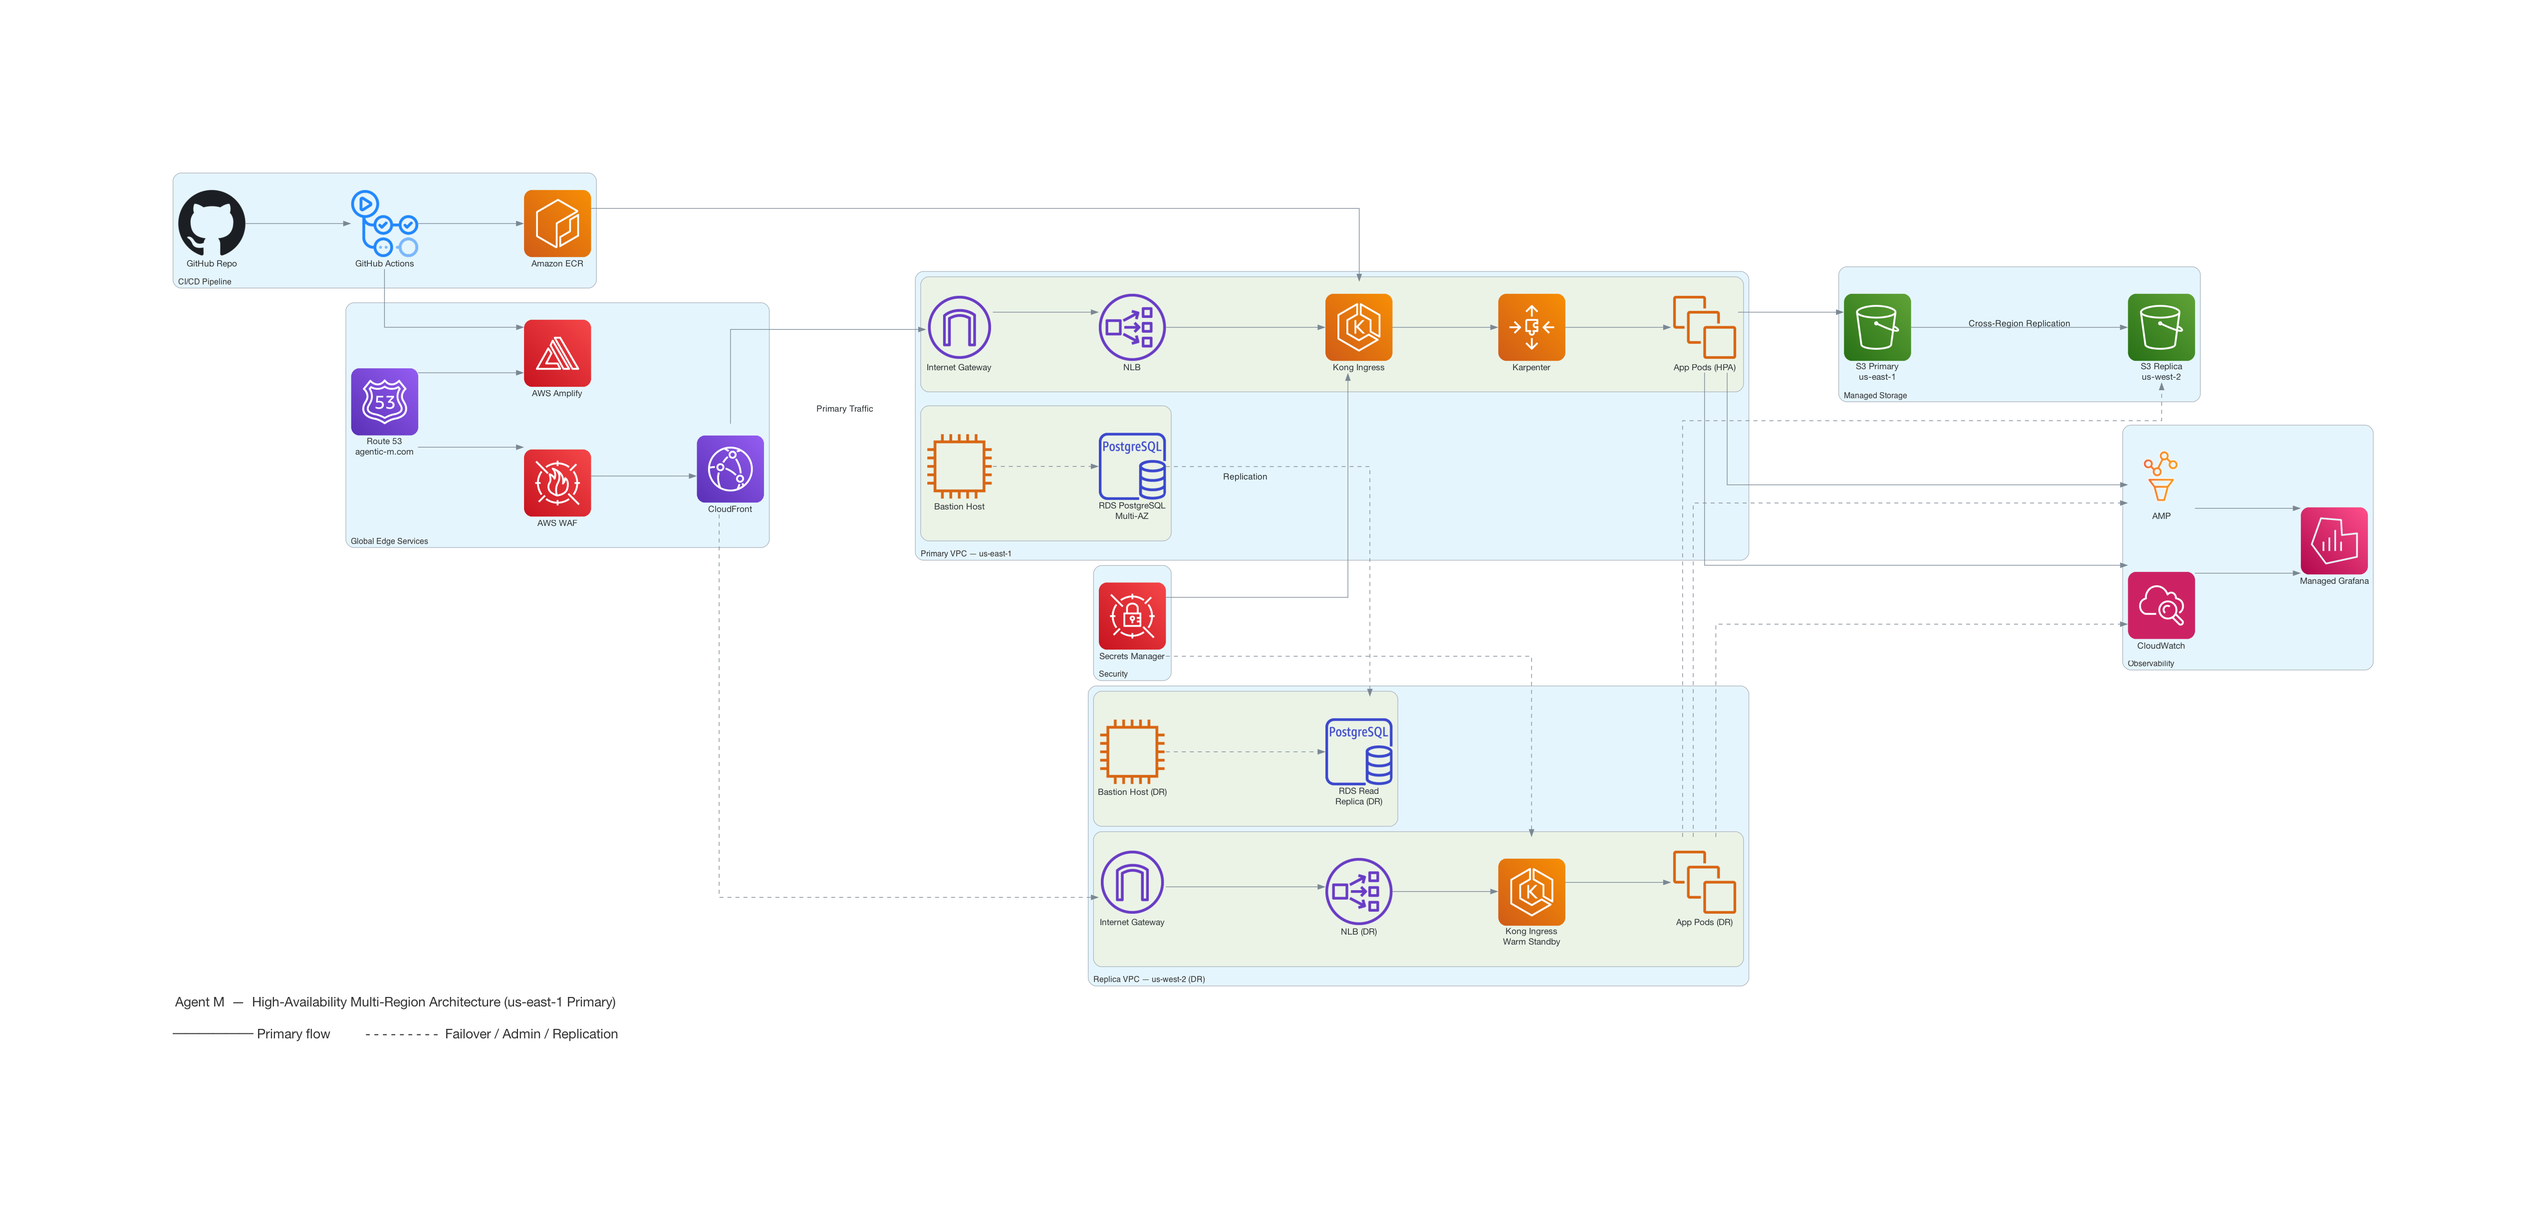
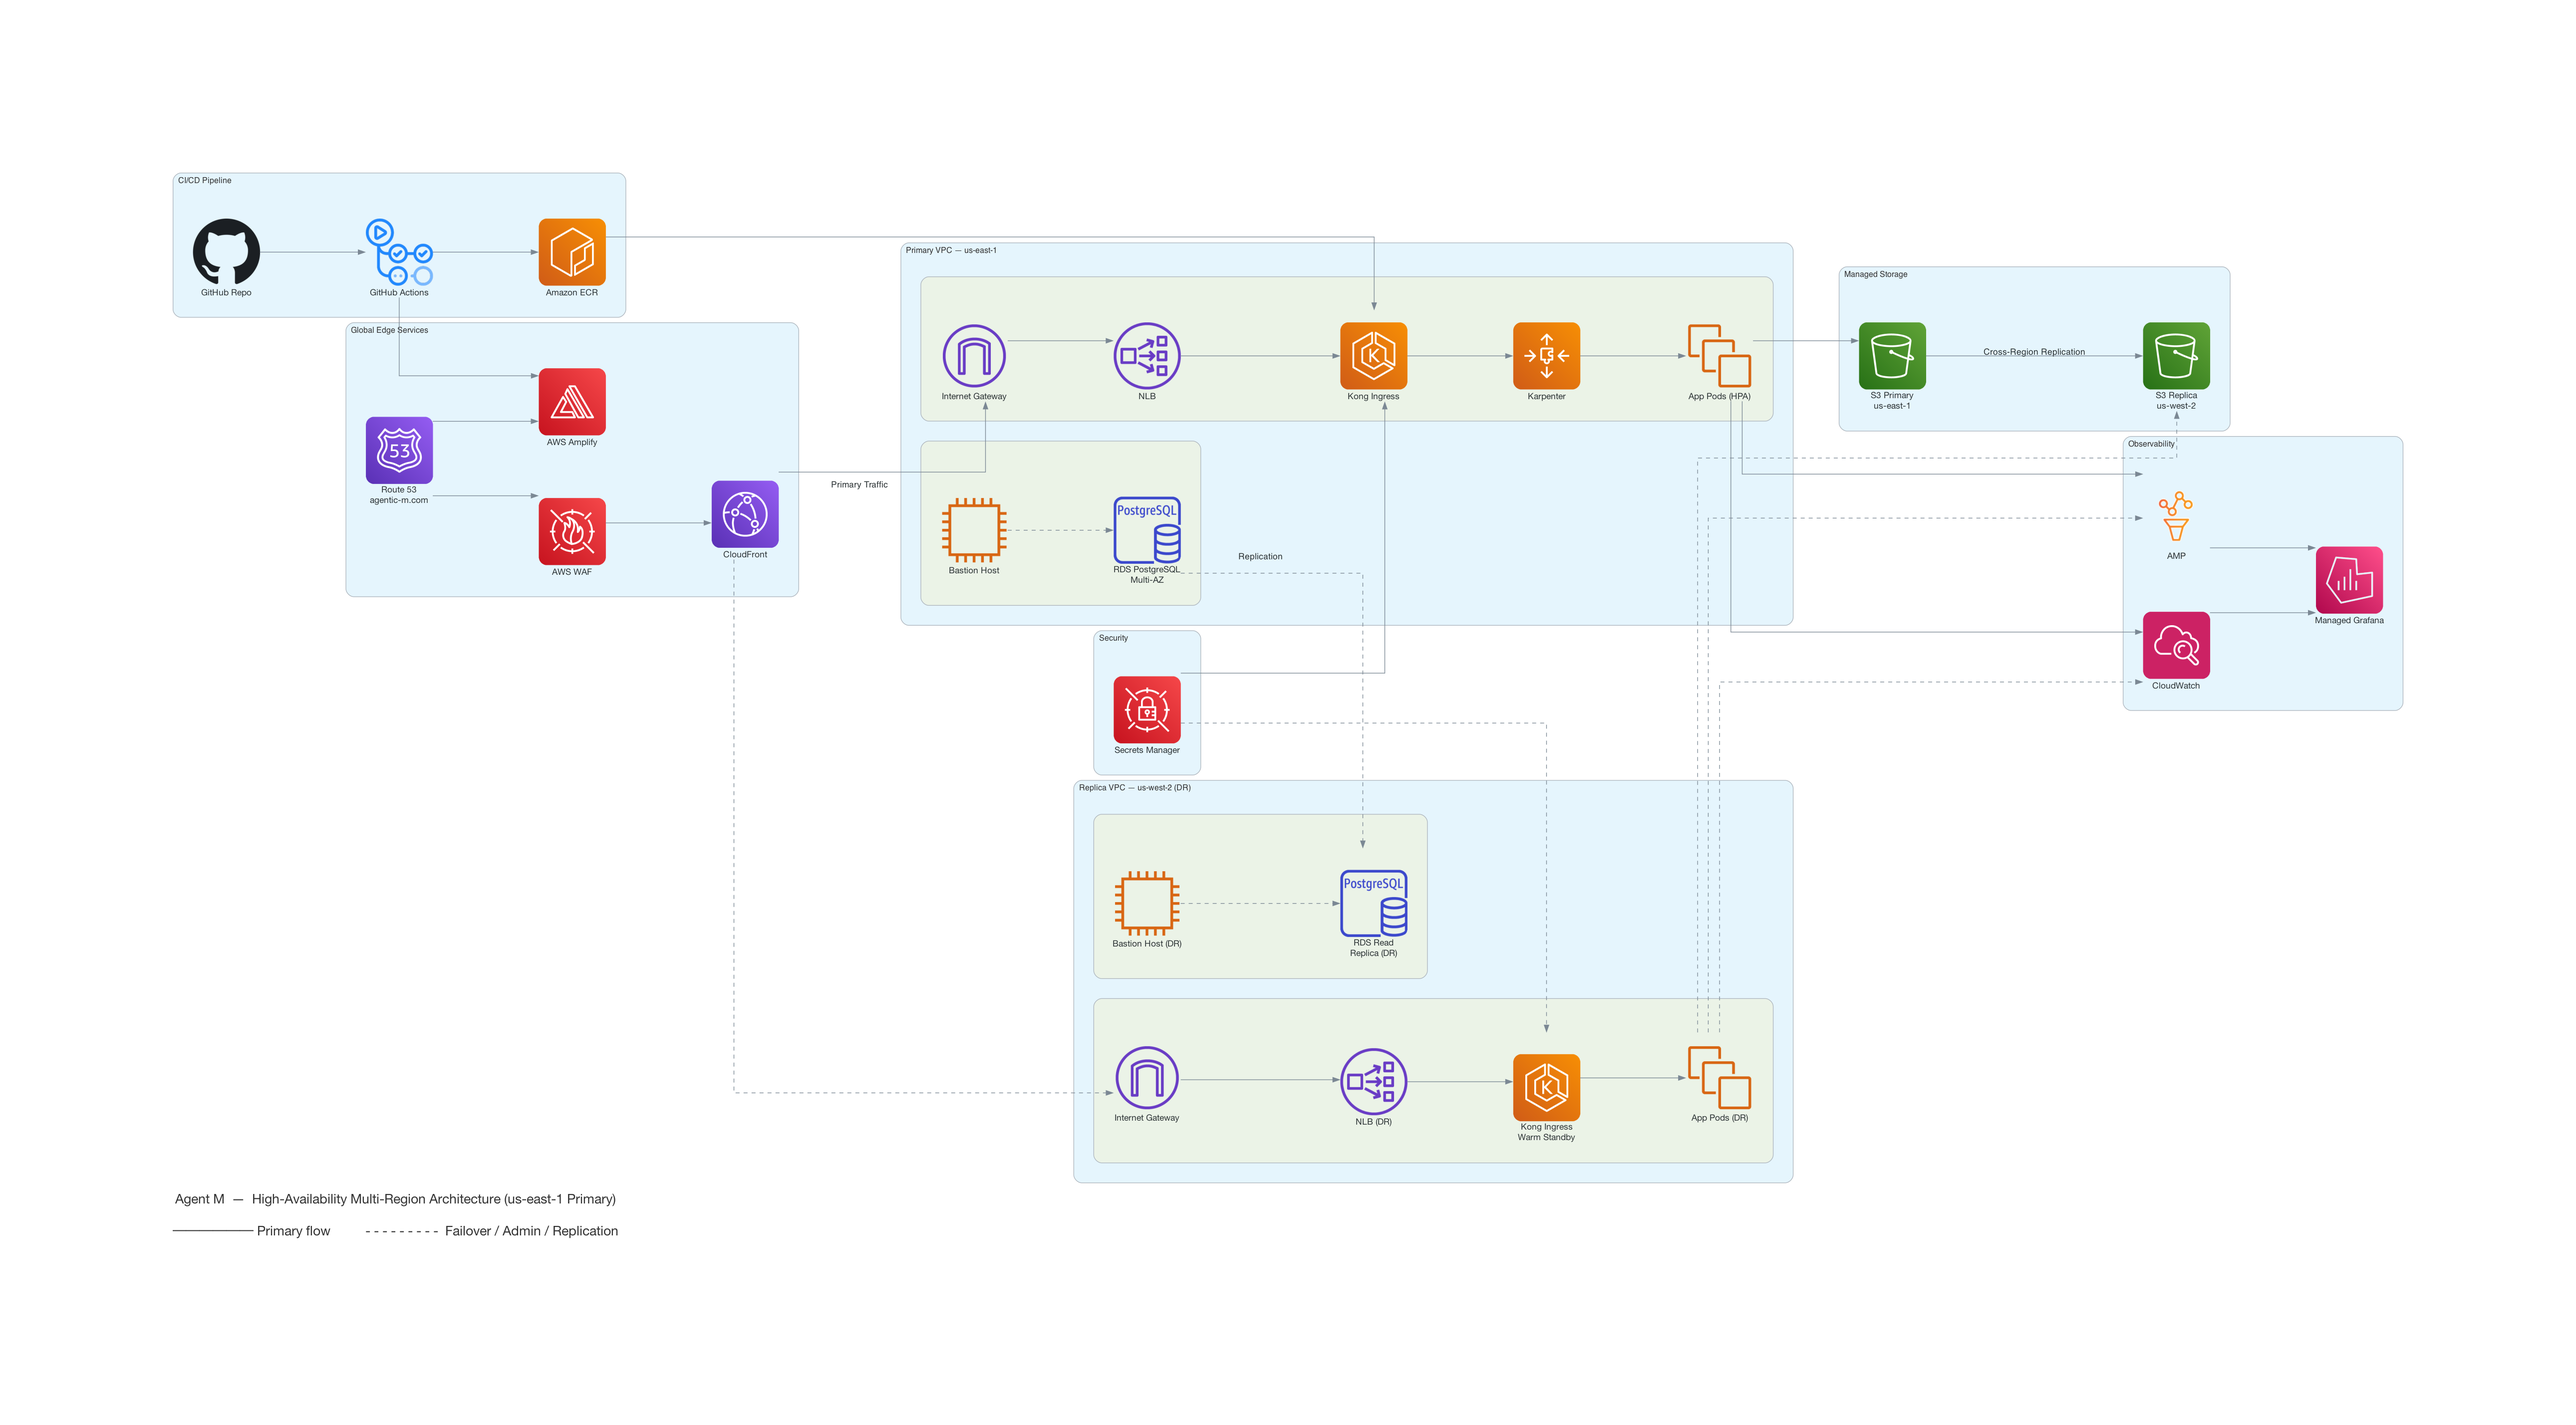
chore(aws): update architecture

Changed region(s): [[0.3428, 0.1544, 0.9349, 0.8338], [0.0623, 0.1235, 0.3116, 0.4632], [0.0623, 0.8029, 0.2493, 0.8647]]

diff --git a/aws_infrastructure.py b/aws_infrastructure.py
@@ -1,8 +1,10 @@
 # /// script
-# dependencies = [
-#   "diagrams",
-# ]
+# dependencies = ["diagrams"]
 # ///
+import os
+import re
+import subprocess
+import sys
 
 from diagrams import Cluster, Diagram, Edge
 from diagrams.aws.compute import ECR, EKS, AutoScaling, EC2Instance, EC2Instances
@@ -44,8 +46,8 @@ graph_attr = {
 }
 
 node_attr = {"fontsize": "13", "fontname": "Helvetica Neue"}
-cluster_attr = {"margin": "20", "fontsize": "14", "fontname": "Helvetica Neue Bold"}
 
+# ── Step 1: Generate DOT + PNG ────────────────────────────────────────────────
 with Diagram(
     "",
     show=False,
@@ -54,14 +56,12 @@ with Diagram(
     graph_attr=graph_attr,
     node_attr=node_attr,
 ):
-    # ── CI/CD ─────────────────────────────────────────────────────────────────
     with Cluster("CI/CD Pipeline"):
         github_repo = Github("GitHub Repo")
         gh_actions = GithubActions("GitHub Actions")
         ecr = ECR("Amazon ECR")
         github_repo >> gh_actions
 
-    # ── Global Edge ───────────────────────────────────────────────────────────
     with Cluster("Global Edge Services"):
         r53 = Route53("Route 53\nagentic-m.com")
         waf = WAF("AWS WAF")
@@ -73,7 +73,6 @@ with Diagram(
     with Cluster("Security"):
         secrets = SecretsManager("Secrets Manager")
 
-    # ── Primary VPC ───────────────────────────────────────────────────────────
     with Cluster("Primary VPC — us-east-1"):
         with Cluster(" "):
             igw_p = InternetGateway("Internet Gateway")
@@ -82,13 +81,11 @@ with Diagram(
             karpenter = AutoScaling("Karpenter")
             app_pods = EC2Instances("App Pods (HPA)")
             igw_p >> nlb_p >> kong_p >> karpenter >> app_pods
-
         with Cluster("  "):
             bastion_p = EC2Instance("Bastion Host")
             rds_p = RDSPostgresqlInstance("RDS PostgreSQL\nMulti-AZ")
             bastion_p >> Edge(style="dashed") >> rds_p
 
-    # ── DR VPC ────────────────────────────────────────────────────────────────
     with Cluster("Replica VPC — us-west-2 (DR)"):
         with Cluster("   "):
             igw_dr = InternetGateway("Internet Gateway")
@@ -96,26 +93,22 @@ with Diagram(
             kong_dr = EKS("Kong Ingress\nWarm Standby")
             app_dr = EC2Instances("App Pods (DR)")
             igw_dr >> nlb_dr >> kong_dr >> app_dr
-
         with Cluster("    "):
             bastion_dr = EC2Instance("Bastion Host (DR)")
             rds_dr = RDSPostgresqlInstance("RDS Read\nReplica (DR)")
             bastion_dr >> Edge(style="dashed") >> rds_dr
 
-    # ── Storage ───────────────────────────────────────────────────────────────
     with Cluster("Managed Storage"):
         s3_p = S3("S3 Primary\nus-east-1")
         s3_dr = S3("S3 Replica\nus-west-2")
         s3_p >> Edge(label="  Cross-Region Replication  ") >> s3_dr
 
-    # ── Observability ─────────────────────────────────────────────────────────
     with Cluster("Observability"):
         amp = AmazonManagedPrometheus("AMP")
         cw = Cloudwatch("CloudWatch")
         grafana = AmazonManagedGrafana("Managed Grafana")
         [amp, cw] >> grafana
 
-    # ── Spine ─────────────────────────────────────────────────────────────────
     inv = Edge(style="invis")
     ecr >> inv >> cf
     cf >> inv >> igw_p
@@ -124,29 +117,52 @@ with Diagram(
     s3_p >> inv >> amp
     cf >> inv >> secrets
 
-    # ── CI/CD flows ───────────────────────────────────────────────────────────
     gh_actions >> ecr >> kong_p
     gh_actions >> amplify
-
-    # ── Edge → VPCs ───────────────────────────────────────────────────────────
     cf >> Edge(label="\n\n\nPrimary Traffic\n\n\n") >> igw_p
     cf >> Edge(style="dashed") >> igw_dr
-
-    # ── Secrets → Kong ────────────────────────────────────────────────────────
     secrets >> kong_p
     secrets >> Edge(style="dashed") >> kong_dr
-
-    # ── RDS replication ───────────────────────────────────────────────────────
     rds_p >> Edge(style="dashed", label="  Replication  ") >> rds_dr
-
-    # ── App Pods → Storage ────────────────────────────────────────────────────
     app_pods >> s3_p
     app_dr >> Edge(style="dashed") >> s3_dr
-
-    # ── App Pods → Observability ──────────────────────────────────────────────
     app_pods >> amp
     app_pods >> cw
     app_dr >> Edge(style="dashed") >> amp
     app_dr >> Edge(style="dashed") >> cw
 
-print(f"Diagram saved to {OUT}.png")
+# ── Step 2: Patch DOT — cluster labels to top ─────────────────────────────────
+with open(f"{OUT}.dot") as f:
+    dot = f.read()
+
+dot = re.sub(r'\s*bb="[^"]*",', "", dot)
+dot = re.sub(r'\s*lp="[^"]*",', "", dot)
+dot = re.sub(r"\s*lheight=[^,\n]+,", "", dot)
+dot = re.sub(r"\s*lwidth=[^,\n]+,", "", dot)
+
+
+def patch_clusters(dot):
+    lines, in_cluster = [], False
+    for line in dot.split("\n"):
+        if re.match(r'\s*subgraph (?:cluster_|"cluster_)', line):
+            in_cluster = True
+        if in_cluster and re.match(r"\s*graph \[", line):
+            lines += [line, "\t\t\tlabelloc=t,", "\t\t\tmargin=30,"]
+            in_cluster = False
+            continue
+        lines.append(line)
+    return "\n".join(lines)
+
+
+dot = patch_clusters(dot)
+
+with open("/tmp/patched.dot", "w") as f:
+    f.write(dot)
+
+# ── Step 3: Render final PNG ──────────────────────────────────────────────────
+r = subprocess.run(
+    ["dot", "-Tpng", "-Gdpi=96", "/tmp/patched.dot", "-o", f"{OUT}.png"],
+    capture_output=True,
+    text=True,
+)
+print(r.stderr[:200] if r.returncode != 0 else f"Diagram saved to {OUT}.png")

diff --git a/README.md b/README.md
@@ -39,7 +39,7 @@ Agent M leverages a multi-agent AI architecture to transform real-time market da
 ## ☁ AWS Architecture
 
 <p align="center">
-    <img width="5102" alt="aws_infrastructure" src="https://github.com/user-attachments/assets/50a71c16-3459-42e1-854c-2a52bc2be49f" />
+    <img width="5161" alt="aws_infrastructure" src="https://github.com/user-attachments/assets/459a51c8-e187-4c14-8de3-1e91a910dcee" />
 </p>
 
 ## 🚀 Features
